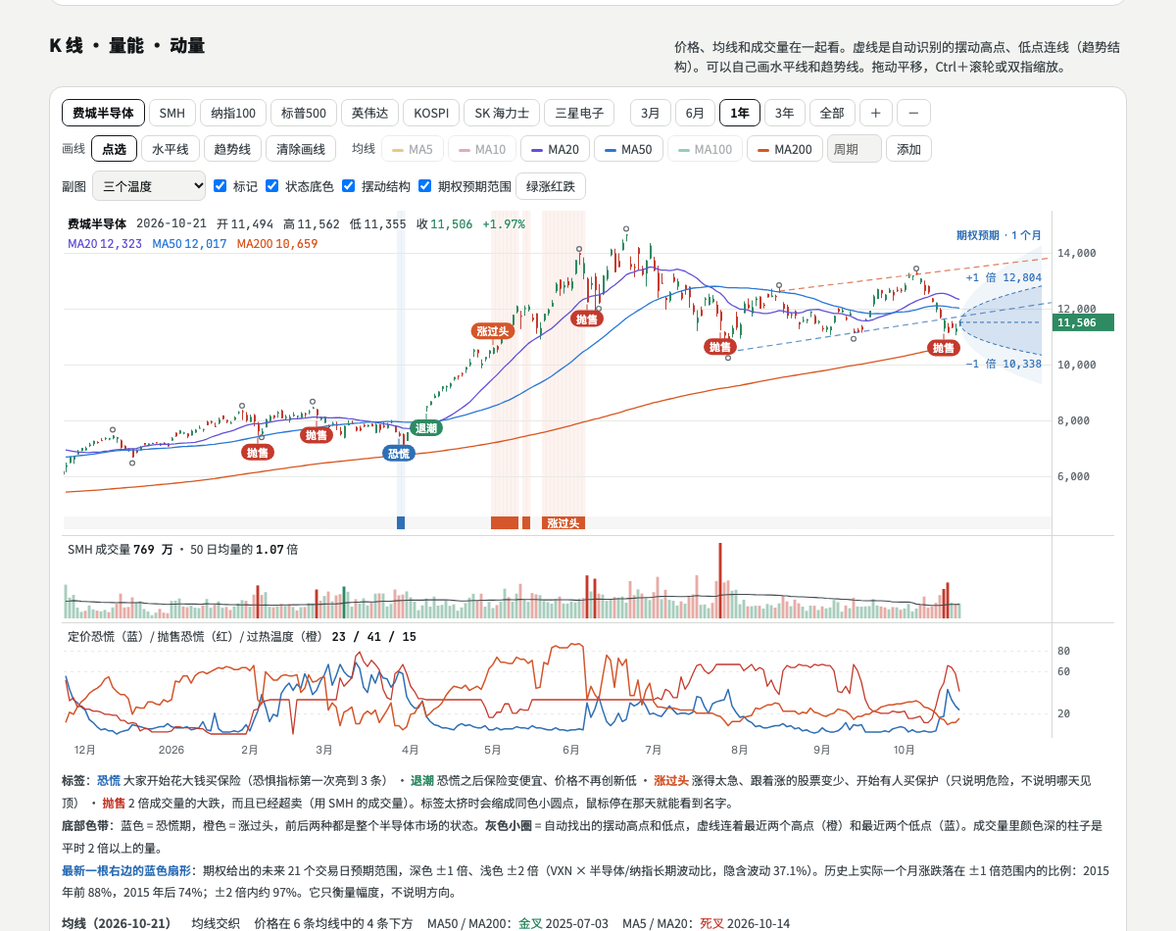
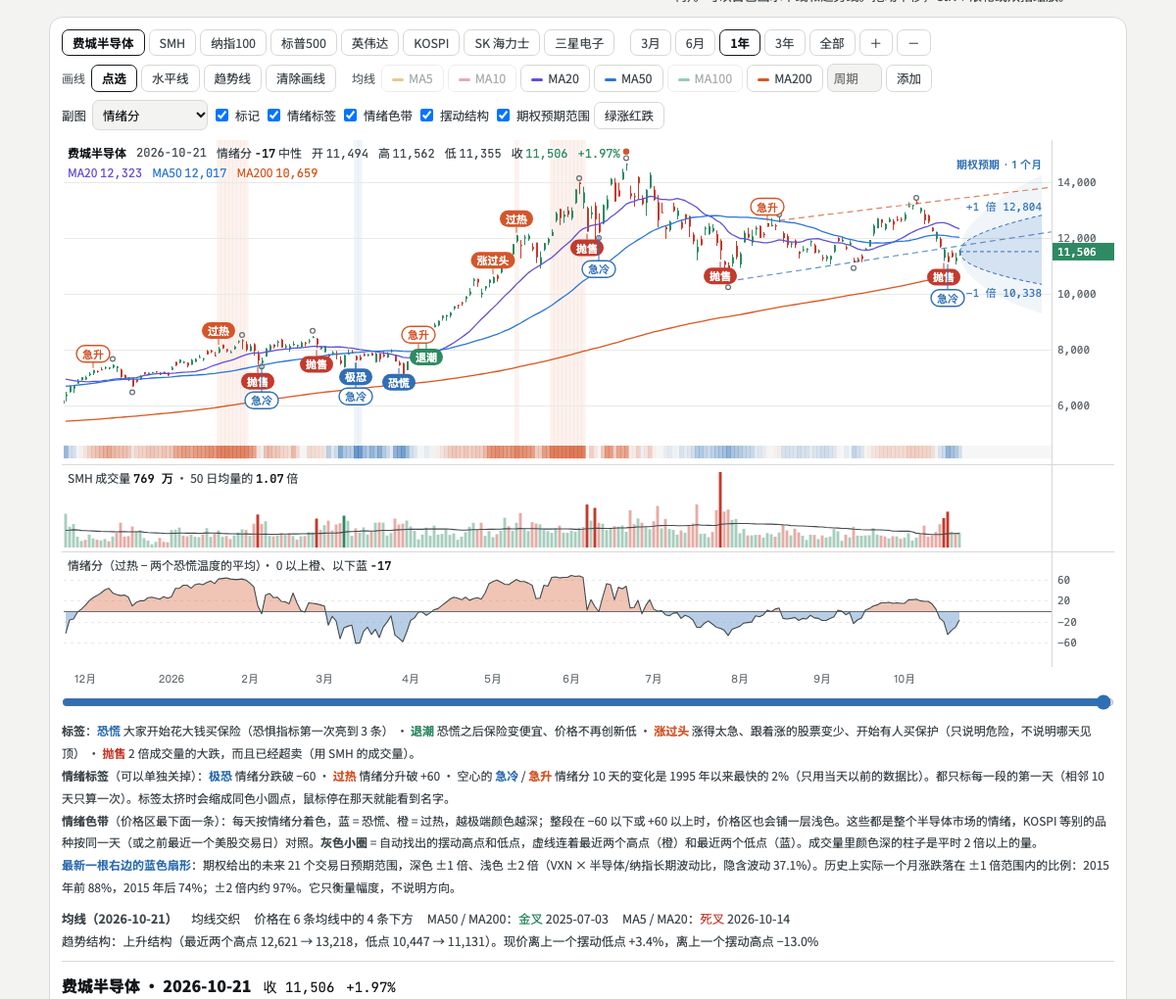
K 线：找回情绪标签（极恐、过热、急冷、急升），情绪色带，情绪分副图改成面积图，别的品种不再断开

diff --git a/sentiment_template.html b/sentiment_template.html
@@ -741,7 +741,7 @@ function boot(RAW) {
     const MA_COL = { 5: ["#c98a00", "#e8b23a"], 10: ["#c2457a", "#ed93b1"], 20: ["#6250d6", "#a49cf0"], 50: ["#2a78d6", "#5b9be6"], 100: ["#178f66", "#3cc794"], 200: ["#d9561f", "#f08a5d"] };
     const XCOL = [["#7a6f5c", "#b5a98f"], ["#4d7c8a", "#86b6c4"], ["#8a5a44", "#c9967e"], ["#5c6b2e", "#a3b56a"]];
     const SUBS = [["score", "情绪分"], ["fearx", "超出价格的恐慌"], ["temp", "三个温度"], ["ivrv", "隐含 / 实际波动"], ["rsi", "RSI"], ["vix", "VIX"], ["t3", "VIX 期限结构"], ["breadth", "成分股广度"], ["count", "恐惧 / 脆弱条数"], ["none", "不显示"]];
-    const cfg = Object.assign({ sym: SYMS[0].k, n: 252, mas: DEF_MA.slice(), on: { 5: 0, 10: 0, 20: 1, 50: 1, 100: 0, 200: 1 }, sub: "score", mk: true, bg: true, sw: true, cone: true, redUp: false }, ld(LS, {}));
+    const cfg = Object.assign({ sym: SYMS[0].k, n: 252, mas: DEF_MA.slice(), on: { 5: 0, 10: 0, 20: 1, 50: 1, 100: 0, 200: 1 }, sub: "score", mk: true, smk: true, bg: true, sw: true, cone: true, redUp: false }, ld(LS, {}));
     if (!SYMS.some(s => s.k === cfg.sym)) cfg.sym = SYMS[0].k;
     if (!SUBS.some(s => s[0] === cfg.sub)) cfg.sub = "rsi";
     cfg.mas = [...new Set((cfg.mas || []).map(Number).filter(p => p >= 2 && p <= 400))].sort((a, b) => a - b);
@@ -757,12 +757,14 @@ function boot(RAW) {
     setUpDown();
 
     const sma = (a, p) => { const r = new Float64Array(a.length).fill(NaN); let s = 0, k = 0; for (let i = 0; i < a.length; i++) { s += a[i]; if (i >= p) s -= a[i - p]; if (i >= p - 1) r[i] = s / p; } return r; };
+    // 别的品种（KOSPI 等）交易日和美股不一样：取那天或之前最近一个美股交易日的市场读数（最多往前 5 天），副图和色带就不会断
+    const dayIdx = d => { if (DMAP.has(d)) return DMAP.get(d); let lo = 0, hi = D.d.length - 1, k = -1; while (lo <= hi) { const m = (lo + hi) >> 1; if (D.d[m] <= d) { k = m; lo = m + 1; } else hi = m - 1; } return k >= 0 && (Date.parse(d) - Date.parse(D.d[k])) / 864e5 <= 5 ? k : null; };
     let B = [], DI = new Map(), MA = {}, XMA = {}, V50 = [], ohlc = false, hasVol = false, cur = null, CLX = new Set(), PIV = [];
     function build() {
       cur = SYMS.find(s => s.k === cfg.sym) || SYMS[0];
       B = cur.rows.map((r, i) => {
         const [d, o, h, l, c, v] = r, real = o != null && h != null && l != null;
-        return { d, c, o: real ? o : c, h: real ? Math.max(h, o, c) : c, l: real ? Math.min(l, o, c) : c, v: v || 0, real, rsi: cur.rsi ? cur.rsi[i] : null, di: DMAP.has(d) ? DMAP.get(d) : null };
+        return { d, c, o: real ? o : c, h: real ? Math.max(h, o, c) : c, l: real ? Math.min(l, o, c) : c, v: v || 0, real, rsi: cur.rsi ? cur.rsi[i] : null, di: dayIdx(d) };
       });
       ohlc = B.filter(b => b.real).length > B.length / 2;
       hasVol = B.some(b => b.v > 0);
@@ -778,12 +780,18 @@ function boot(RAW) {
     const MK = new Map();
     function buildMarkers() {
       MK.clear();
-      const add = (d, m) => { const a = MK.get(d) || []; a.push(m); MK.set(d, a); };
+      const add = (d, m) => { if (!d) return; const a = MK.get(d) || []; a.push(m); MK.set(d, a); };
+      // 市场的日子落到这个品种的哪根 K 线：同一天，没有就往后找最近的一根（最多 5 天）
+      const barDate = d => { if (DI.has(d)) return d; let lo = 0, hi = B.length - 1, k = -1; while (lo <= hi) { const m = (lo + hi) >> 1; if (B[m].d >= d) { k = m; hi = m - 1; } else lo = m + 1; } return k >= 0 && (Date.parse(B[k].d) - Date.parse(d)) / 864e5 <= 5 ? B[k].d : null; };
       const defs = [
         { t: "恐慌", side: "turn", col: "fear", f: i => D.fear[i] >= 3 },
         { t: "退潮", side: "turn", col: "ok", f: i => D.clear[i] === 1 },
-        { t: "涨过头", side: "risk", col: "greed", f: i => D.frag[i] >= 4 }];
-      for (const df of defs) { let last = -99; for (let i = 0; i < D.d.length; i++) { const on = df.f(i); if (on && i - last > 10) add(D.d[i], df); if (on) last = i; } }
+        { t: "涨过头", side: "risk", col: "greed", f: i => D.frag[i] >= 4 },
+        { t: "极恐", side: "turn", col: "fear", s: 1, f: i => D.sband && D.sband[i] === 0 },
+        { t: "过热", side: "risk", col: "greed", s: 1, f: i => D.sband && D.sband[i] === 4 },
+        { t: "急冷", side: "turn", col: "fear", s: 1, ol: 1, f: i => D.sfast && D.sfast[i] === -1 },
+        { t: "急升", side: "risk", col: "greed", s: 1, ol: 1, f: i => D.sfast && D.sfast[i] === 1 }];
+      for (const df of defs) { if (df.s && !cfg.smk) continue; let last = -99; for (let i = 0; i < D.d.length; i++) { const on = df.f(i); if (on && i - last > 10) add(barDate(D.d[i]), df); if (on) last = i; } }
       let last = -99;
       B.forEach((b, i) => { if (CLX.has(b.d)) { if (i - last > 10) add(b.d, { t: "抛售", side: "turn", col: "alert" }); last = i; } });
     }
@@ -823,7 +831,7 @@ function boot(RAW) {
     function subDef(T) {
       const s = cfg.sub;
       if (s === "none") return null;
-      if (s === "score") return { lo: -100, hi: 100, lines: [-60, -20, 0, 20, 60], ser: [{ f: i => dv(i, "score"), col: T.ink, w: 1.5 }], lab: "情绪分（过热 − 两个恐慌温度的平均）", dp: 0, fill: [[20, 100, T.greed], [-100, -20, T.fear]] };
+      if (s === "score") return { lo: -100, hi: 100, lines: [-60, -20, 20, 60], area: i => dv(i, "score"), ser: [{ f: i => dv(i, "score"), col: T.ink2, w: 1.1 }], lab: "情绪分（过热 − 两个恐慌温度的平均）· 0 以上橙、以下蓝", dp: 0 };
       if (s === "fearx") return { lo: 0, hi: 100, lines: [20, 40, 60, 80], ser: [{ f: i => dv(i, "fearn"), col: T.ink3, w: 1.3 }, { f: i => dv(i, "gfear"), col: T.fear, w: 1.6 }], lab: "定价恐慌（蓝）/ 回撤深度相近时的正常水平（灰）", dp: 0 };
       if (s === "temp") return { lo: 0, hi: 100, lines: [20, 60, 80], ser: [{ f: i => dv(i, "gfear"), col: T.fear, w: 1.5 }, { f: i => dv(i, "gsell"), col: T.alert, w: 1.3 }, { f: i => dv(i, "ghot"), col: T.greed, w: 1.5 }], lab: "定价恐慌（蓝）/ 抛售恐慌（红）/ 过热温度（橙）", dp: 0 };
       if (s === "ivrv") {
@@ -880,23 +888,26 @@ function boot(RAW) {
       const bw = G.barW, FR = hexToRgb(T.fear).join(","), GR = hexToRgb(T.greed).join(",");
 
       g.save(); g.beginPath(); g.rect(G.L, 0, G.R - G.L, plotH); g.clip();
-      // state tint: fear fully priced (blue), fragility ≥ 4 (orange)
+      // 情绪底色：情绪分 ≤ −60（极度恐慌）浅蓝，≥ 60（过热）浅橙
       if (cfg.bg) for (let i = G.i0; i <= G.i1; i++) {
-        const fe = dv(i, "fear"), fr = dv(i, "frag");
-        if (fe != null && fe >= 3) { g.fillStyle = `rgba(${FR},${DARK ? 0.12 : 0.07})`; g.fillRect(xOf(i) - bw / 2, 0, bw + 0.6, G.pH); }
-        else if (fr != null && fr >= 4) { g.fillStyle = `rgba(${GR},${DARK ? 0.11 : 0.07})`; g.fillRect(xOf(i) - bw / 2, 0, bw + 0.6, G.pH); }
+        const sb = dv(i, "sband");
+        if (sb === 0 || sb === 4) { g.fillStyle = `rgba(${sb === 0 ? FR : GR},${DARK ? 0.13 : 0.08})`; g.fillRect(xOf(i) - bw / 2, 0, bw + 0.6, G.pH); }
       }
-      // 状态色带：价格区底部一条，连续的一段写上名字
+      // 情绪色带：价格区底部一条，每天按情绪分着色（蓝 = 恐慌，橙 = 过热，越极端越深），极端的一段写上名字
       if (cfg.bg) {
-        const sy = G.pH - STRIP() + 1, sh = STRIP() - 3, st = i => { const fe = dv(i, "fear"), fr = dv(i, "frag"); return fe != null && fe >= 3 ? "fear" : fr != null && fr >= 4 ? "frag" : null; };
+        const sy = G.pH - STRIP() + 1, sh = STRIP() - 3;
         g.fillStyle = DARK ? "rgba(255,255,255,.04)" : "rgba(0,0,0,.035)"; g.fillRect(G.L, sy, G.R - G.L, sh);
+        for (let i = G.i0; i <= G.i1; i++) {
+          const v = dv(i, "score"); if (v == null) continue;
+          g.fillStyle = `rgba(${v < 0 ? FR : GR},${(Math.min(1, Math.abs(v) / 80) * (DARK ? 0.95 : 0.88)).toFixed(3)})`;
+          g.fillRect(xOf(i) - bw / 2, sy, bw + 0.6, sh);
+        }
         let r0 = null;
         for (let i = G.i0; i <= G.i1 + 1; i++) {
-          const k = i <= G.i1 ? st(i) : null;
+          const sb = i <= G.i1 ? dv(i, "sband") : null, k = sb === 0 ? "fear" : sb === 4 ? "hot" : null;
           if (r0 && k !== r0.k) {
             const x0 = xOf(r0.i) - bw / 2, x1 = xOf(i - 1) + bw / 2;
-            g.fillStyle = r0.k === "fear" ? T.fear : T.greed; g.fillRect(x0, sy, Math.max(2, x1 - x0), sh);
-            if (x1 - x0 >= 44) { g.fillStyle = "#fff"; g.font = "700 11px " + fb; g.textAlign = "center"; g.textBaseline = "middle"; g.fillText(r0.k === "fear" ? "恐慌期" : "涨过头", (x0 + x1) / 2, sy + sh / 2 + 0.5); g.textBaseline = "alphabetic"; }
+            if (x1 - x0 >= 56) { g.fillStyle = "#fff"; g.font = "700 11px " + fb; g.textAlign = "center"; g.textBaseline = "middle"; g.fillText(r0.k === "fear" ? "极度恐慌" : "过热", (x0 + x1) / 2, sy + sh / 2 + 0.5); g.textBaseline = "alphabetic"; }
             r0 = null;
           }
           if (k && !r0) r0 = { i, k };
@@ -992,8 +1003,9 @@ function boot(RAW) {
             placed.push([x - tw / 2, y, x + tw / 2, y + h]);
             g.beginPath(); g.moveTo(x, risk ? y + h : y); g.lineTo(x, risk ? yP(b.h) - 2 : yP(b.l) + 2); g.stroke();
             const rx = x - tw / 2, rr = 8.5;
-            g.beginPath(); g.moveTo(rx + rr, y); g.arcTo(rx + tw, y, rx + tw, y + h, rr); g.arcTo(rx + tw, y + h, rx, y + h, rr); g.arcTo(rx, y + h, rx, y, rr); g.arcTo(rx, y, rx + tw, y, rr); g.closePath(); g.fill();
-            g.fillStyle = "#fff"; g.fillText(m.t, x, y + h / 2 + 0.5);
+            g.beginPath(); g.moveTo(rx + rr, y); g.arcTo(rx + tw, y, rx + tw, y + h, rr); g.arcTo(rx + tw, y + h, rx, y + h, rr); g.arcTo(rx, y + h, rx, y, rr); g.arcTo(rx, y, rx + tw, y, rr); g.closePath();
+            if (m.ol) { g.fillStyle = T.panel; g.fill(); g.lineWidth = 1.4; g.stroke(); g.fillStyle = col; } else { g.fill(); g.fillStyle = "#fff"; }
+            g.fillText(m.t, x, y + h / 2 + 0.5);
             if (risk) ya = y - 3; else yb = y + h + 3;
           }
         }
@@ -1029,6 +1041,18 @@ function boot(RAW) {
             if (fr) { g.fillStyle = T.greed; g.globalAlpha = fr >= 4 ? 1 : .5; const y = yS(-fr); g.fillRect(xOf(i) - sb / 2, y0, sb, y - y0); }
           }
           g.globalAlpha = 1;
+        }
+        if (sub.area) {      // 以 0 为界：上面填橙，下面填蓝
+          const y0 = yS(0);
+          for (const [t0, t1, col] of [[G.sTop, y0, T.greed], [y0, G.sTop + G.sH, T.fear]]) {
+            g.save(); g.beginPath(); g.rect(G.L, t0, G.R - G.L, t1 - t0); g.clip();
+            g.fillStyle = `rgba(${hexToRgb(col).join(",")},${DARK ? 0.42 : 0.34})`;
+            let run = [];
+            const flush = () => { if (run.length > 1) { g.beginPath(); g.moveTo(run[0][0], y0); for (const [x, y] of run) g.lineTo(x, y); g.lineTo(run[run.length - 1][0], y0); g.closePath(); g.fill(); } run = []; };
+            for (let i = G.i0; i <= G.i1; i++) { const v = sub.area(i); if (v == null) { flush(); continue; } run.push([xOf(i), yS(v)]); }
+            flush(); g.restore();
+          }
+          g.strokeStyle = T.ink3; g.lineWidth = 1; g.beginPath(); g.moveTo(G.L, Math.round(y0) + 0.5); g.lineTo(G.R, Math.round(y0) + 0.5); g.stroke();
         }
         for (const s of sub.ser || []) {
           g.strokeStyle = s.col; g.lineWidth = s.w; g.beginPath(); let on = false;
@@ -1090,7 +1114,9 @@ function boot(RAW) {
     function legend(i) {
       const b = B[i]; if (!b) return;
       const pv = B[i - 1], ch = pv ? (b.c / pv.c - 1) * 100 : null, col = ch == null ? "var(--ink)" : ch >= 0 ? "var(--pos)" : "var(--neg)";
-      $("klegend").innerHTML = `<div class="l1"><b>${esc(cur.n)}</b><span class="num">${b.d}</span>` +
+      const sc = dv(i, "score"), sb = dv(i, "sband");
+      const scTxt = sc == null ? "" : `<span>情绪分 <i style="color:${sc <= -20 ? "var(--fear)" : sc >= 20 ? "var(--greed)" : "var(--ink)"};font-weight:700">${sgn(sc, 0)}</i> ${esc((D.snames || [])[sb] || "")}</span>`;
+      $("klegend").innerHTML = `<div class="l1"><b>${esc(cur.n)}</b><span class="num">${b.d}</span>${scTxt}` +
         (b.real ? `<span>开 <i>${fmtP(b.o)}</i></span><span>高 <i>${fmtP(b.h)}</i></span><span>低 <i>${fmtP(b.l)}</i></span>` : "") +
         `<span>收 <i style="color:${col}">${fmtP(b.c)}</i></span><span><i style="color:${col}">${ch == null ? "" : sgn(ch, 2) + "%"}</i></span>${(MK.get(b.d) || []).map(m => `<b style="color:var(--${m.col === "ok" ? "ok" : m.col === "fear" ? "fear" : m.col === "greed" ? "greed" : "alert"})">${m.t}</b>`).join(" ")}${dayState(i)}</div>` +
         `<div class="l2">${cfg.mas.filter(p => cfg.on[p]).map(p => `<span style="color:${maCol(p)}">MA${p} <i>${fmtP(MA[p][i])}</i></span>`).join("")}</div>`;
@@ -1141,7 +1167,7 @@ function boot(RAW) {
       const i = B.length - 1, m = maState(i);
       $("kma").innerHTML = `<span><b>均线（${B[i].d}）</b></span><span class="${m.cls}">${m.txt}</span><span>价格在 ${m.n} 条均线中的 ${m.below} 条下方</span>` +
         `<span>MA50 / MA200：${crossTxt(50, 200, i, 1000)}</span><span>MA5 / MA20：${crossTxt(5, 20, i, 120)}</span><span>趋势结构：${swingNow()}</span>`;
-      $("kkey").innerHTML = `<b>标签</b>：<b style="color:var(--fear)">恐慌</b> 大家开始花大钱买保险（恐惧指标第一次亮到 3 条） · <b style="color:var(--ok)">退潮</b> 恐慌之后保险变便宜、价格不再创新低 · <b style="color:var(--greed)">涨过头</b> 涨得太急、跟着涨的股票变少、开始有人买保护（只说明危险，不说明哪天见顶） · <b style="color:var(--alert)">抛售</b> 2 倍成交量的大跌，而且已经超卖（${cur.k === "^SOX" ? "用 SMH 的成交量" : "这个品种自己的"}）。标签太挤时会缩成同色小圆点，鼠标停在那天就能看到名字。<br><b>底部色带</b>：蓝色 = 恐慌期，橙色 = 涨过头，前后两种都是整个半导体市场的状态。<b>灰色小圈</b> = 自动找出的摆动高点和低点，虚线连着最近两个高点（橙）和最近两个低点（蓝）。成交量里颜色深的柱子是平时 2 倍以上的量。${(() => { const c = coneNow(); if (!c) return ""; const cv = c.cover ? `历史上实际一个月涨跌落在 ±1 倍范围内的比例：2015 年前 ${fmt(c.cover.pre[0] * 100, 0)}%，2015 年后 ${fmt(c.cover.post[0] * 100, 0)}%；±2 倍内约 ${fmt(c.cover.post[1] * 100, 0)}%。` : "这个标的的期权没有长历史可以检验，按同样的算法画出。"; return `<br><b style="color:var(--accent)">最新一根右边的蓝色扇形</b>：期权给出的未来 21 个交易日预期范围，深色 ±1 倍、浅色 ±2 倍（${esc(c.src)}，隐含波动 ${fmt(c.iv, 1)}%）。${cv}它只衡量幅度，不说明方向。`; })()}`;
+      $("kkey").innerHTML = `<b>标签</b>：<b style="color:var(--fear)">恐慌</b> 大家开始花大钱买保险（恐惧指标第一次亮到 3 条） · <b style="color:var(--ok)">退潮</b> 恐慌之后保险变便宜、价格不再创新低 · <b style="color:var(--greed)">涨过头</b> 涨得太急、跟着涨的股票变少、开始有人买保护（只说明危险，不说明哪天见顶） · <b style="color:var(--alert)">抛售</b> 2 倍成交量的大跌，而且已经超卖（${cur.k === "^SOX" ? "用 SMH 的成交量" : "这个品种自己的"}）。<br><b>情绪标签</b>（可以单独关掉）：<b style="color:var(--fear)">极恐</b> 情绪分跌破 −60 · <b style="color:var(--greed)">过热</b> 情绪分升破 +60 · 空心的 <b style="color:var(--fear)">急冷</b> / <b style="color:var(--greed)">急升</b> 情绪分 10 天的变化是 1995 年以来最快的 2%（只用当天以前的数据比）。都只标每一段的第一天（相邻 10 天只算一次）。标签太挤时会缩成同色小圆点，鼠标停在那天就能看到名字。<br><b>情绪色带</b>（价格区最下面一条）：每天按情绪分着色，蓝 = 恐慌、橙 = 过热，越极端颜色越深；整段在 −60 以下或 +60 以上时，价格区也会铺一层浅色。这些都是整个半导体市场的情绪，KOSPI 等别的品种按同一天（或之前最近一个美股交易日）对照。<b>灰色小圈</b> = 自动找出的摆动高点和低点，虚线连着最近两个高点（橙）和最近两个低点（蓝）。成交量里颜色深的柱子是平时 2 倍以上的量。${(() => { const c = coneNow(); if (!c) return ""; const cv = c.cover ? `历史上实际一个月涨跌落在 ±1 倍范围内的比例：2015 年前 ${fmt(c.cover.pre[0] * 100, 0)}%，2015 年后 ${fmt(c.cover.post[0] * 100, 0)}%；±2 倍内约 ${fmt(c.cover.post[1] * 100, 0)}%。` : "这个标的的期权没有长历史可以检验，按同样的算法画出。"; return `<br><b style="color:var(--accent)">最新一根右边的蓝色扇形</b>：期权给出的未来 21 个交易日预期范围，深色 ±1 倍、浅色 ±2 倍（${esc(c.src)}，隐含波动 ${fmt(c.iv, 1)}%）。${cv}它只衡量幅度，不说明方向。`; })()}`;
     }
     const fwdK = (i, k) => i + k < B.length ? (B[i + k].c / B[i].c - 1) * 100 : null;
     const extK = (i, k, upw) => { if (i + 1 >= B.length) return null; let m = 0; for (let j = i + 1; j <= Math.min(B.length - 1, i + k); j++) { const r = B[j].c / B[i].c - 1; m = upw ? Math.max(m, r) : Math.min(m, r); } return m * 100; };
@@ -1220,10 +1246,11 @@ function boot(RAW) {
         <div class="kgrp" role="group" aria-label="画线工具"><span class="kl">画线</span>${[["pick", "点选"], ["h", "水平线"], ["t", "趋势线"]].map(([k, t]) => `<button type="button" class="kbtn${on(tool === k)}" data-tool="${k}">${t}</button>`).join("")}<button type="button" class="kbtn" data-act="clear">${clearArm ? "再点一次确认" : "清除画线"}</button></div>
         <div class="kgrp" role="group" aria-label="均线"><span class="kl">均线</span>${cfg.mas.map(p => `<button type="button" class="kbtn mach${cfg.on[p] ? "" : " off"}" data-ma="${p}"><i style="background:${maCol(p)}"></i>MA${p}${DEF_MA.includes(p) ? "" : ' <span data-rm="' + p + '" aria-label="删除">×</span>'}</button>`).join("")}<input id="k-maadd" type="number" min="2" max="400" step="1" placeholder="周期" aria-label="添加均线周期"><button type="button" class="kbtn" data-act="addma">添加</button></div>
         <div class="kgrp"><label for="k-sub" class="kl">副图</label><select id="k-sub">${SUBS.map(([id, t]) => `<option value="${id}"${cfg.sub === id ? " selected" : ""}>${t}</option>`).join("")}</select>
-          <label><input type="checkbox" id="k-mk"${cfg.mk ? " checked" : ""}>标记</label><label><input type="checkbox" id="k-bg"${cfg.bg ? " checked" : ""}>状态底色</label><label><input type="checkbox" id="k-sw"${cfg.sw ? " checked" : ""}>摆动结构</label><label><input type="checkbox" id="k-cone"${cfg.cone ? " checked" : ""}>期权预期范围</label>
+          <label><input type="checkbox" id="k-mk"${cfg.mk ? " checked" : ""}>标记</label><label><input type="checkbox" id="k-smk"${cfg.smk ? " checked" : ""}>情绪标签</label><label><input type="checkbox" id="k-bg"${cfg.bg ? " checked" : ""}>情绪色带</label><label><input type="checkbox" id="k-sw"${cfg.sw ? " checked" : ""}>摆动结构</label><label><input type="checkbox" id="k-cone"${cfg.cone ? " checked" : ""}>期权预期范围</label>
           <button type="button" class="kbtn" data-act="updown">${cfg.redUp ? "红涨绿跌" : "绿涨红跌"}</button></div>`;
       $("k-sub").onchange = e => { cfg.sub = e.target.value; saveCfg(); schedule(); };
       $("k-mk").onchange = e => { cfg.mk = e.target.checked; saveCfg(); schedule(); };
+      $("k-smk").onchange = e => { cfg.smk = e.target.checked; saveCfg(); buildMarkers(); schedule(); };
       $("k-bg").onchange = e => { cfg.bg = e.target.checked; saveCfg(); schedule(); };
       $("k-sw").onchange = e => { cfg.sw = e.target.checked; saveCfg(); schedule(); };
       $("k-cone").onchange = e => { cfg.cone = e.target.checked; saveCfg(); setRange(cfg.n); renderMA(); schedule(); };

diff --git a/engine.py b/engine.py
@@ -583,8 +583,11 @@ def market(D):
         M[GCOL[kind] + "_pct"] = exp_pct(M[GCOL[kind]]).reindex(M.index)
     M["score"] = G["score"]                             # 见 SCORE_BANDS
     M["score_pct"] = exp_pct(M.score).reindex(M.index)
+    # 情绪变化的速度：10 天变化在自己历史里的分位（只用当天以前）。K 线标签"急冷 / 急升" = 最快的 2%（第三轮的惯例）
+    M["score_spd"] = exp_pct(M.score - M.score.shift(10)).reindex(M.index)
     # 超出价格的恐慌（2026-10-22 用户同意）：同样回撤深度（DD_EDGES 分档，按自己的长期波动折算）的日子里，
     # 定价恐慌通常是多少（只用当天以前，含当天）。今天高出或低于这个正常水平，就是价格以外的那部分情绪。只作描述。
+    M = M.copy()                                         # 前面一列一列加，先整理一下内存
     bucket = pd.Series(np.digitize(M.ddv.fillna(0.0), DD_EDGES), index=M.index).where(M.ddv.notna())
     M["dd_bucket"] = bucket
     M["fear_norm"] = M["fear_xp"] = np.nan
@@ -1234,6 +1237,10 @@ def build(D=None, options=None):
     ms = measure_now(D, M, options)
     S = ms.pop("series")
     daily["score"] = [r6(x, 0) for x in M.score]
+    names = [n for _, n in SCORE_BANDS] + ["过热"]
+    daily["sband"] = [None if not np.isfinite(x) else names.index(score_band(x)) for x in M.score]
+    daily["sfast"] = [0 if not np.isfinite(x) else -1 if x <= 2 else 1 if x >= 98 else 0 for x in M.score_spd]
+    daily["snames"] = names
     daily["fearn"], daily["fearx"] = [r6(x, 0) for x in M.fear_norm], [r6(x, 0) for x in M.fear_x]
     hd = headline(M, grid)
     gs = hd["gauges"]
@@ -1329,7 +1336,7 @@ def append_log(M, built):
 
 
 # ---------------------------------------------------------------- 自检
-CHECK_COLS = ["g_fear", "g_sell", "g_hot", "score", "score_pct", "fear_norm", "fear_x", "fear_xp", "g_fear_pct", "g_sell_pct", "dd", "ddv", "extv", "z20", "acc", "rsi", "swing", "brk", "vix_pct", "t3_pct", "pc_pct", "baa_pct", "bb_pct", "br_pct50", "br_pct200",
+CHECK_COLS = ["g_fear", "g_sell", "g_hot", "score", "score_pct", "score_spd", "fear_norm", "fear_x", "fear_xp", "g_fear_pct", "g_sell_pct", "dd", "ddv", "extv", "z20", "acc", "rsi", "swing", "brk", "vix_pct", "t3_pct", "pc_pct", "baa_pct", "bb_pct", "br_pct50", "br_pct200",
               "br_zema", "fear_n", "frag_n", "pos", "eq_spx", "t_clear", "t_thrust", "t_climax", "smh_relv", "lv"]
 
 

diff --git a/CLAUDE.md b/CLAUDE.md
@@ -144,7 +144,12 @@
 1. 总览（`#overview`）：一句话状态、三个温度（带一年走势和分项）、对照格、底部清单、恐慌退潮、脆弱度、六层读数。
    - 每日一览（`#daily-sec`）：最近 20 / 60 天每天一行，点一行跳 K 线。
 2. K 线（`#kline-sec`）：
-   - 三块：价格、成交量、副图。副图可选：三个温度 / 隐含与实际波动 / RSI / VIX / 期限结构 / 广度 / 条数。
+   - 三块：价格、成交量、副图。副图可选：情绪分（默认，0 以上填橙、以下填蓝）/ 超出价格的恐慌 / 三个温度 / 隐含与实际波动 / RSI / VIX / 期限结构 / 广度 / 条数。
+   - 2026-10-22 用户要求 K 线更鲜明、把情绪标签找回来（第四轮去掉综合分时，"急冷 / 急升"标签跟着没了，只剩 4 种严格的清单标签，一年才几个）：
+     - 情绪标签（可单独关）：极恐（情绪分 ≤ −60）、过热（≥ 60）、急冷 / 急升（`score_spd`：10 天变化在历史最快的 2%，第三轮的惯例）。每段只标第一天。
+     - 情绪色带：价格区底部每天按情绪分着色；整段 ≤ −60 或 ≥ 60 时价格区铺浅色。原来按清单状态的底色和色带取消（清单状态由标签表示）。
+     - 别的品种（KOSPI 等）按同一天或之前最近一个美股交易日对照（`dayIdx`），副图和色带不再断开；市场标签落到同一天或之后最近的一根 K 线（`barDate`）。
+     - 图例里显示那天的情绪分。
    - 最新一根右边的期权预期范围（±1、±2 倍，21 个交易日）。
    - 4 种带字标签：恐慌、退潮、涨过头、抛售。
    - 底部状态色带：恐慌期、涨过头。

diff --git a/规则说明.md b/规则说明.md
@@ -219,6 +219,8 @@
 
 - 品种：费城半导体（成交量用 SMH 的）、SMH、纳指 100、标普 500、英伟达、KOSPI、海力士、三星。
 - 三块：价格（蜡烛和均线）、成交量（颜色深的是 50 日均量 2 倍以上的柱子，黑线是 50 日均量）、副图。副图可选三个温度、隐含 / 实际波动、RSI、VIX、期限结构、成分股广度、恐惧和脆弱条数。
+- **情绪标签**（可以单独关掉）：极恐 = 情绪分跌破 −60；过热 = 升破 +60；空心的急冷 / 急升 = 情绪分 10 天的变化是 1995 年以来最快的 2%（只和当天以前比）。都只标每一段的第一天。
+- **情绪色带**：价格区最下面一条，每天按情绪分着色（蓝 = 恐慌，橙 = 过热，越极端越深）；整段在 −60 以下或 +60 以上时价格区铺一层浅色。KOSPI 等别的品种按同一天（或之前最近一个美股交易日）对照。
 - **期权预期范围**：最新一根右边的蓝色扇形，是期权给出的未来 21 个交易日 ±1 倍（深色）、±2 倍（浅色）范围。费城半导体用 VXN 折算，纳指用 VXN，标普用 VIX，SMH、英伟达用自己的期权链，KOSPI 用韩国 ETF EWY（含汇率）。只衡量幅度，不说明方向。可以关掉。
 - **标记**：
   - ▲恐慌：大家开始花大钱买保险（恐惧定价第一次达到 3 条）。

diff --git a/README.md b/README.md
@@ -16,7 +16,7 @@
 
 - 原来的 Claude 定时任务和 Mac 本机定时任务都已停用，现在只有云端在跑。
 - 恢复一个总分：**情绪分** = 过热 − (定价恐慌 + 抛售恐慌) ÷ 2，−100 极度恐慌到 +100 过热，放在看板最上面，每日一览和 K 线副图里也有。
-- 指标客观性审查（[docs/审查](docs/审查/2026-10-22_指标客观性审查.md)）：刻度的主观性影响小；情绪分描述恐慌底部准（AUC 0.93），描述顶部一般，约三分之二是价格回声；方向性规则的证据比标签弱。之后加了"情绪分的合理区间"和"超出价格的恐慌"，图表改成鼠标移上去就能看，不用拖。
+- 指标客观性审查（[docs/审查](docs/审查/2026-10-22_指标客观性审查.md)）：刻度的主观性影响小；情绪分描述恐慌底部准（AUC 0.93），描述顶部一般，约三分之二是价格回声；方向性规则的证据比标签弱。之后加了"情绪分的合理区间"和"超出价格的恐慌"，图表改成鼠标移上去就能看，不用拖。K 线找回情绪标签（极恐、过热、急冷、急升），加了情绪色带，副图默认显示情绪分。
 
 **等你做**：手机装 ntfy App，订阅推送频道。
 
